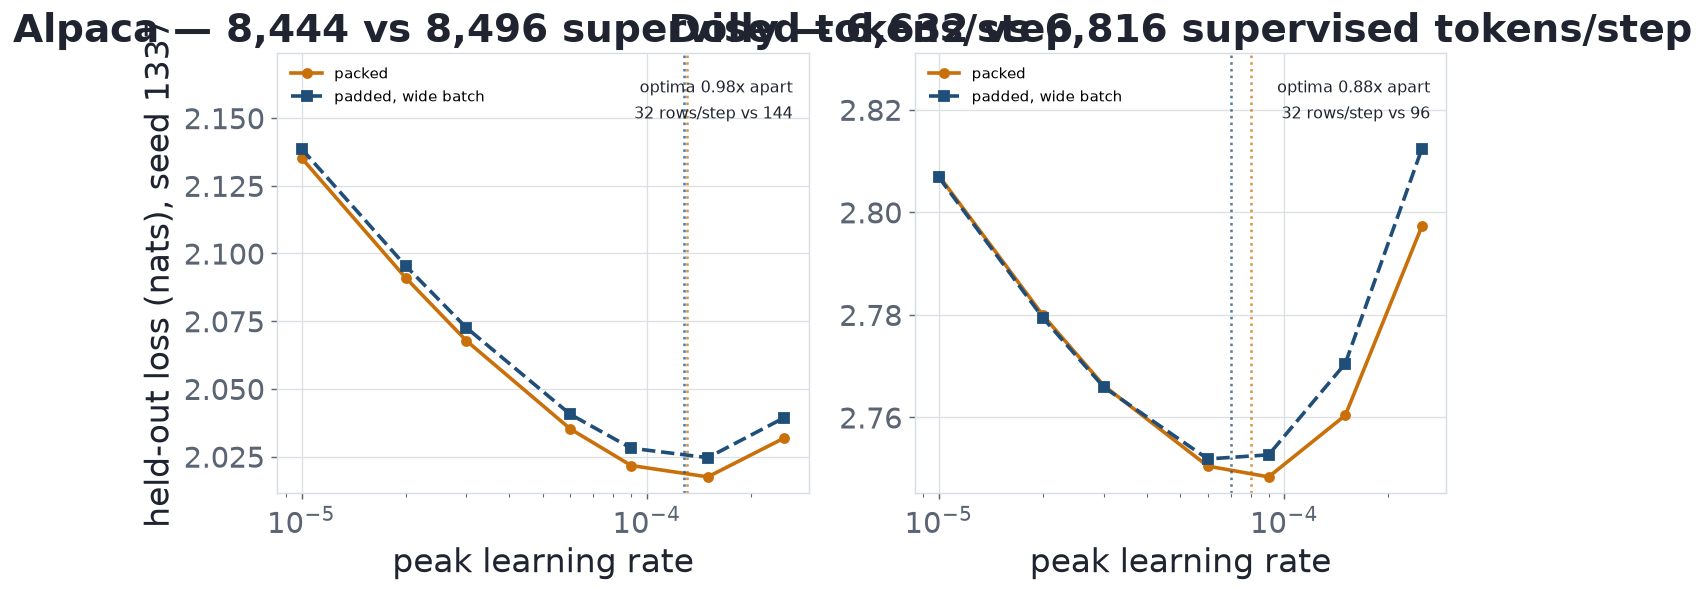
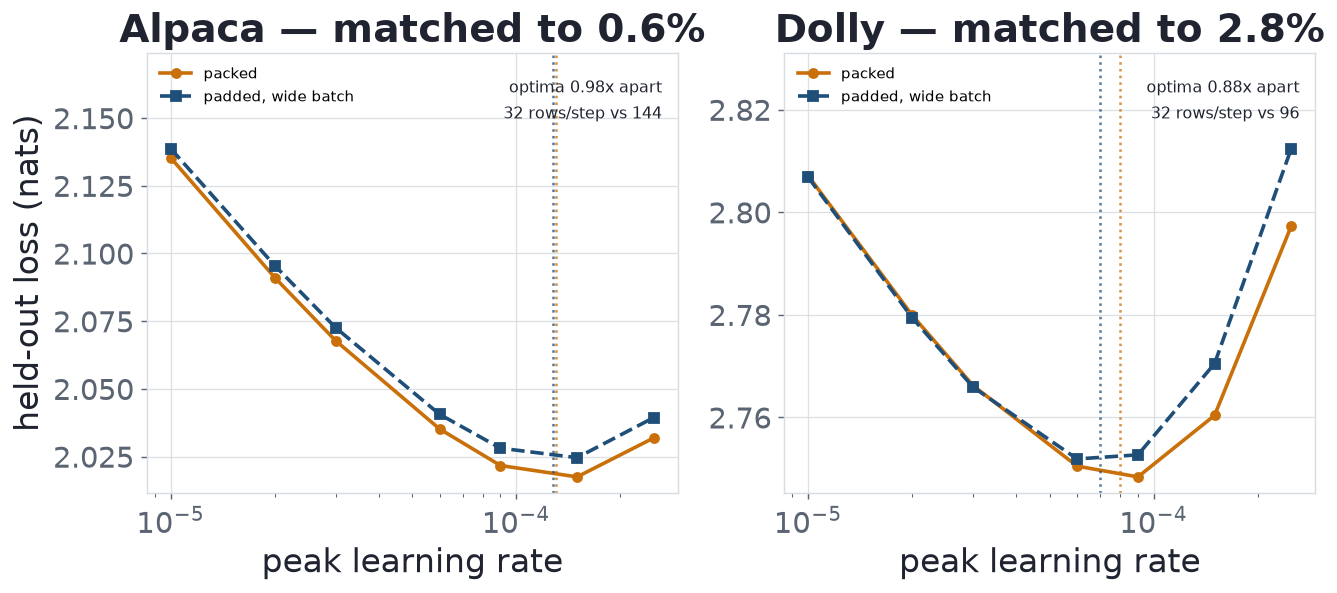
Shorten the wide-batch control's titles, and leave figure 06 at README size
Scaling the type 1.8x works for the three main-body figures and breaks the two
whose panel titles are long: "Alpaca -- 8,444 vs 8,496 supervised tokens/step"
is wider than its own panel at that size, and it collided with the neighbouring
title. The token counts are in the caption and in Appendix K, so the title now
says what the reader needs from it -- how closely the two arms were matched --
and reads "Alpaca -- matched to 0.6%".

Figure 06 is reverted to README type size. It is the one figure of the five that
the README embeds, its titles are just as long, and in the paper it appears only
in Appendix E. Making it legible in the paper at the cost of colliding titles in
both places was the wrong trade.

Checked by looking at each rendered figure rather than assuming the scale
transfers. The workshop version still fits nine content pages.

diff --git a/ashugpt/viz/figures.py b/ashugpt/viz/figures.py
@@ -495,7 +495,9 @@ def lr_scaling_control() -> Path:
 
             ax.set_xscale("log")
             ax.set_xlabel("peak learning rate")
-            ax.set_title(f"{title} — {pk_tok:,} vs {wd_tok:,} supervised tokens/step")
+            # The counts are in the caption and in Appendix K: spelled out here
+            # they make a title wider than its own panel at paper type size.
+            ax.set_title(f"{title} — matched to {abs(wd_tok - pk_tok) / pk_tok:.1%}")
             ax.legend(loc="upper left", fontsize=8.5)
 
             if len(marks) == 2:
@@ -512,7 +514,7 @@ def lr_scaling_control() -> Path:
                         transform=ax.transAxes, ha="right", va="top", fontsize=9,
                         color=TEXT, linespacing=1.6)
 
-        axes[0].set_ylabel("held-out loss (nats), seed 1337")
+        axes[0].set_ylabel("held-out loss (nats)")
         return save(fig, OUT / "07-lr-scaling-control.png")
 
 
